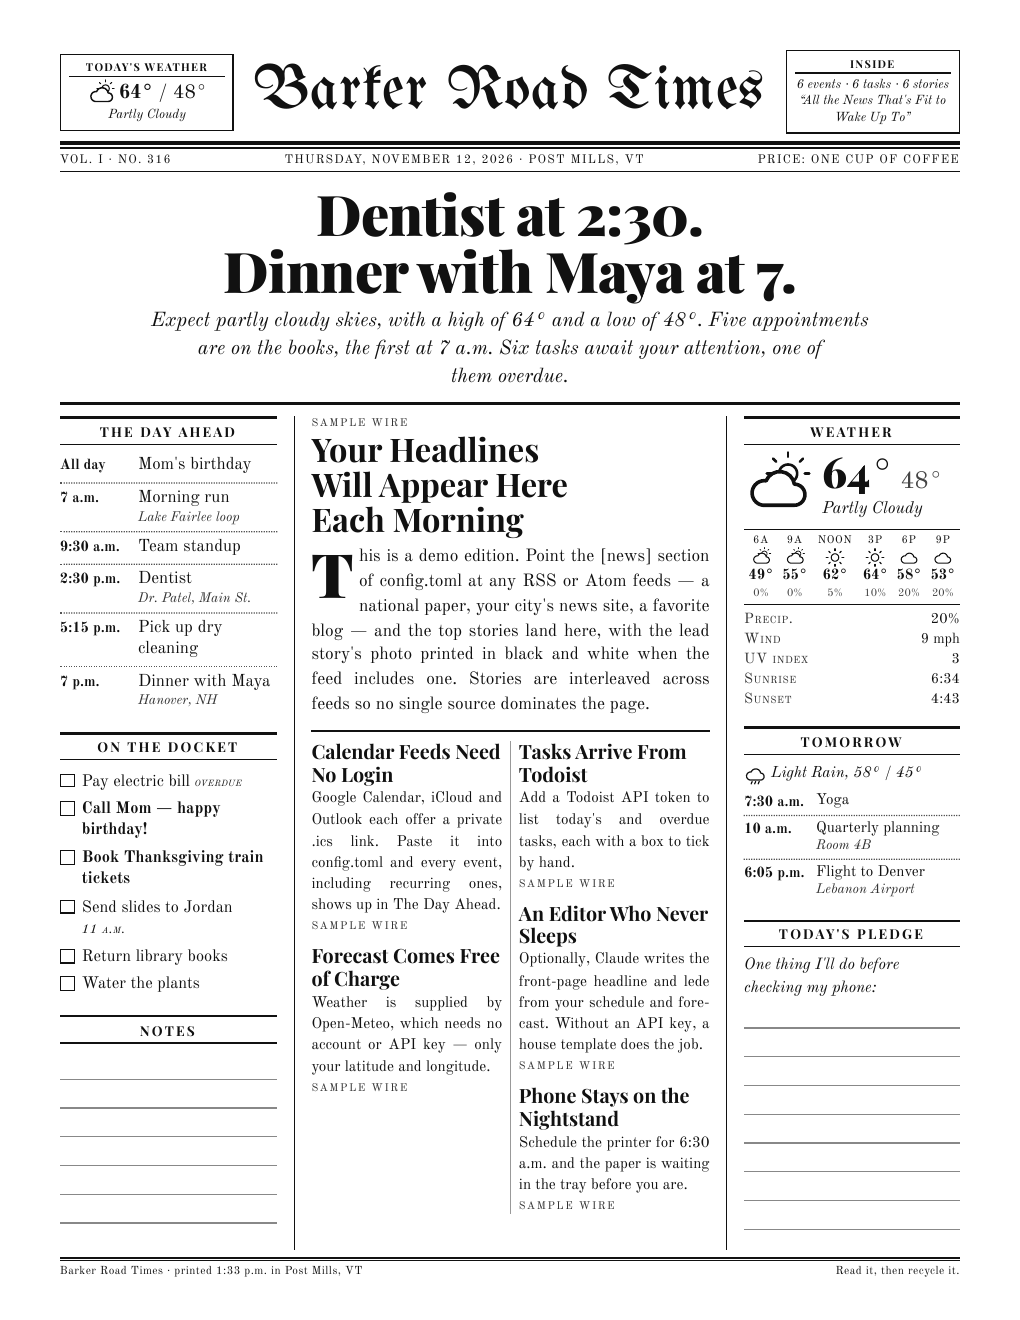
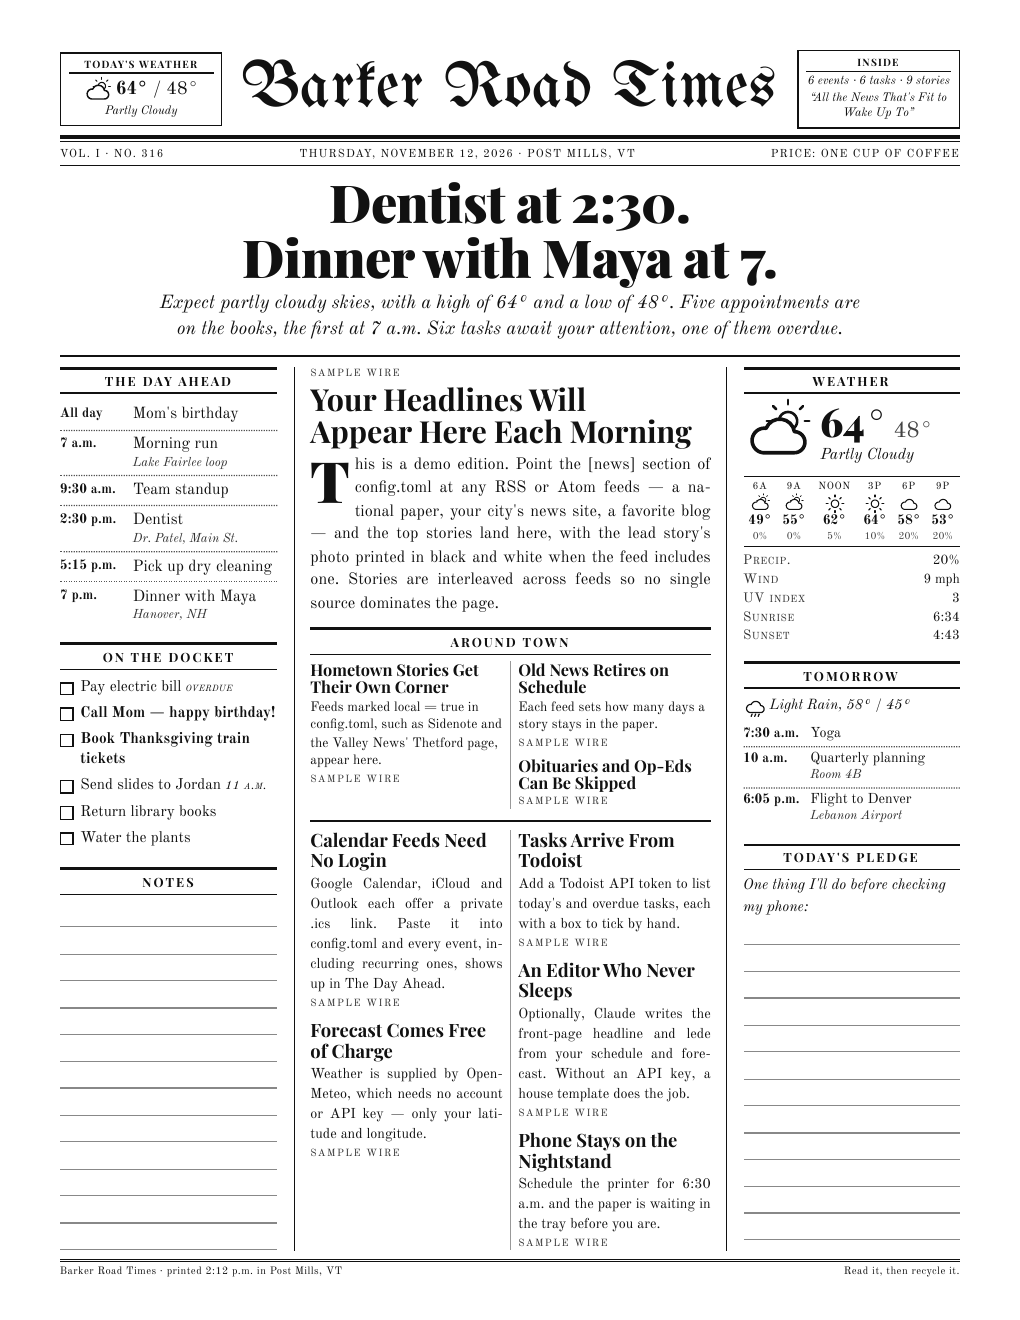
Add Thetford news: an "Around Thetford" box and fresher feeds
- Feeds can be marked local = true; their headlines get their own box
  under the lead story. The example config uses Sidenote and the Valley
  News' Thetford tag, with VTDigger and NPR in the main column.
- Stories carry their publish date and categories; max_age_days (global
  or per feed) retires old stories, and skip_categories drops tagged
  obituaries and opinion pieces.
- Strip feed sign-offs such as "Read the story on VTDigger here: ...".
- Send an Accept header: NPR's feeds return 403 without one.
- Turn Todoist on in the example config.

Claude-Session: https://claude.ai/code/session_013C1dUTS3tUufRTLXZ5FGJK

Changed region(s): [[0.0608, 0.0311, 0.9422, 0.9629], [0.7294, 0.8386, 0.9422, 0.8697], [0.0608, 0.8386, 0.2735, 0.8697]]

diff --git a/paper/templates/paper.css b/paper/templates/paper.css
@@ -201,6 +201,19 @@ body {
   line-height: .82;
   padding: .06em .08em 0 0;
 }
+.local { margin-top: .8rem; }
+.local .kicker { margin-top: 0; }
+.local-list { list-style: none; column-count: 2; column-gap: 1.1rem; column-rule: .5px solid #999; }
+.local-list li { break-inside: avoid; margin-bottom: .55rem; }
+.local-list h4 {
+  font-family: "Playfair Display", serif;
+  font-weight: 700;
+  font-size: 1.15rem;
+  line-height: 1.12;
+  margin-bottom: .15rem;
+}
+.local-list p { font-size: .95rem; line-height: 1.35; margin-bottom: .1rem; }
+
 .briefs {
   margin-top: .8rem;
   padding-top: .55rem;

diff --git a/paper/sources/news.py b/paper/sources/news.py
@@ -5,6 +5,8 @@ from __future__ import annotations
 import html
 import re
 import xml.etree.ElementTree as ET
+from datetime import datetime, timedelta, timezone
+from email.utils import parsedate_to_datetime
 from html.parser import HTMLParser
 from itertools import zip_longest
 from typing import Iterable
@@ -16,9 +18,14 @@ NS = {
     "atom": "http://www.w3.org/2005/Atom",
     "media": "http://search.yahoo.com/mrss/",
     "content": "http://purl.org/rss/1.0/modules/content/",
+    "dc": "http://purl.org/dc/elements/1.1/",
 }
 
 SUMMARY_CHARS = 320
+
+# Sign-offs feeds append to every summary ("Read the story on VTDigger here: ...",
+# WordPress's "The post X appeared first on Y.").
+_BOILERPLATE = re.compile(r"\s*(Read the (full )?story on .+|The post .+ appeared first on .+|Continue reading.*)$", re.I)
 
 
 class _TextAndImages(HTMLParser):
@@ -45,7 +52,7 @@ def strip_html(fragment: str) -> tuple[str, list[str]]:
     parser.feed(fragment or "")
     parser.close()
     text = re.sub(r"\s+", " ", html.unescape("".join(parser.parts))).strip()
-    return text, parser.images
+    return _BOILERPLATE.sub("", text), parser.images
 
 
 def clean_title(text: str) -> str:
@@ -84,6 +91,20 @@ def _first_image(el: ET.Element, html_images: list[str]) -> str | None:
     return None
 
 
+def parse_date(text: str) -> datetime | None:
+    """RSS dates are RFC 822 ("Thu, 12 Nov 2026 13:21:00 +0000"); Atom's are ISO 8601."""
+    if not text:
+        return None
+    try:
+        dt = parsedate_to_datetime(text)
+    except (TypeError, ValueError):
+        try:
+            dt = datetime.fromisoformat(text.strip().replace("Z", "+00:00"))
+        except ValueError:
+            return None
+    return dt if dt.tzinfo else dt.replace(tzinfo=timezone.utc)
+
+
 def _text(el: ET.Element, path: str) -> str:
     found = el.find(path, NS)
     return (found.text or "").strip() if found is not None and found.text else ""
@@ -109,6 +130,8 @@ def parse_feed(data: bytes, source: str = "") -> list[NewsItem]:
                     source=source,
                     link=link_el.get("href", "") if link_el is not None else "",
                     image_url=_first_image(entry, imgs),
+                    published=parse_date(_text(entry, "atom:published") or _text(entry, "atom:updated")),
+                    categories=[c.get("term", "") for c in entry.findall("atom:category", NS) if c.get("term")],
                 )
             )
         return [i for i in items if i.title]
@@ -127,9 +150,30 @@ def parse_feed(data: bytes, source: str = "") -> list[NewsItem]:
                 source=source,
                 link=_text(item, "link"),
                 image_url=_first_image(item, desc_imgs + content_imgs),
+                published=parse_date(_text(item, "pubDate") or _text(item, "dc:date")),
+                categories=[c.text.strip() for c in item.findall("category") if c.text and c.text.strip()],
             )
         )
     return [i for i in items if i.title]
+
+
+def keep_fresh(
+    items: Iterable[NewsItem],
+    now: datetime,
+    max_age_days: float | None = None,
+    skip_categories: Iterable[str] = (),
+) -> list[NewsItem]:
+    """Drop stories older than *max_age_days* (undated ones stay) and any in *skip_categories*."""
+    skip = {c.lower() for c in skip_categories}
+    cutoff = now - timedelta(days=max_age_days) if max_age_days is not None else None
+    kept = []
+    for item in items:
+        if skip and any(c.lower() in skip for c in item.categories):
+            continue
+        if cutoff is not None and item.published is not None and item.published < cutoff:
+            continue
+        kept.append(item)
+    return kept
 
 
 def merge_feeds(feeds: Iterable[list[NewsItem]], limit: int) -> list[NewsItem]:

diff --git a/paper/cli.py b/paper/cli.py
@@ -5,7 +5,7 @@ from __future__ import annotations
 import argparse
 import logging
 import sys
-from datetime import date, datetime, timedelta, tzinfo
+from datetime import date, datetime, timedelta, timezone, tzinfo
 from pathlib import Path
 from zoneinfo import ZoneInfo, ZoneInfoNotFoundError
 
@@ -56,6 +56,7 @@ def build_edition(cfg: dict, day: date, tz: tzinfo, use_demo: bool = False) -> E
         ed.tasks = demo.tasks(day, tz)
         ed.weather = demo.weather(day)
         ed.news = demo.news()
+        ed.local_news = demo.local_news()
         write_front_page(ed, {"enabled": False})
         return ed
 
@@ -101,16 +102,23 @@ def build_edition(cfg: dict, day: date, tz: tzinfo, use_demo: bool = False) -> E
     # News ---------------------------------------------------------------
     n = cfg["news"]
     if n["enabled"] and n["feeds"]:
-        per_feed = []
+        general, local = [], []
+        now = datetime.now(timezone.utc)
         for feed in n["feeds"]:
-            name = feed.get("name", "") if isinstance(feed, dict) else ""
-            url = feed["url"] if isinstance(feed, dict) else str(feed)
+            feed = feed if isinstance(feed, dict) else {"url": str(feed)}
+            name = feed.get("name", "")
             try:
-                per_feed.append(news.fetch_feed(url, name))
+                items = news.fetch_feed(feed["url"], name)
             except Exception as exc:
-                log.warning("Feed %s failed: %s", name or url, exc)
+                log.warning("Feed %s failed: %s", name or feed["url"], exc)
                 ed.notes.append(f"{name or 'A news feed'} unreachable")
-        ed.news = news.merge_feeds(per_feed, n["max_stories"])
+                continue
+            items = news.keep_fresh(
+                items, now, feed.get("max_age_days", n["max_age_days"]), feed.get("skip_categories", ())
+            )
+            (local if feed.get("local") else general).append(items)
+        ed.news = news.merge_feeds(general, n["max_stories"])
+        ed.local_news = news.merge_feeds(local, n["max_local"])
 
     write_front_page(ed, cfg["editor"])
     return ed

diff --git a/tests/test_render.py b/tests/test_render.py
@@ -25,7 +25,7 @@ def test_demo_renders_masthead_and_sections():
     ed, html = demo_html()
     assert "Barker Road Times" in html
     assert ed.headline == "Dentist at 2:30. Dinner with Maya at 7."
-    for section in ("The Day Ahead", "On the Docket", "Weather", "Tomorrow"):
+    for section in ("The Day Ahead", "On the Docket", "Weather", "Tomorrow", "Around Town"):
         assert section in html
     # CSS must not be HTML-escaped, or the fonts silently fall back to Times
     assert 'font-family: "UnifrakturMaguntia"' in html
@@ -63,3 +63,34 @@ def test_cli_pdf_is_one_page(tmp_path):
     pdf = (tmp_path / "paper-2026-11-08.pdf").read_bytes()
     assert pdf.startswith(b"%PDF")
     assert len(re.findall(rb"/Type\s*/Page(?!s)", pdf)) == 1  # exactly one sheet of paper
+
+
+def test_local_feeds_fill_their_own_box(monkeypatch):
+    from datetime import datetime, timedelta, timezone
+
+    from paper import cli
+    from paper.models import NewsItem
+
+    now = datetime.now(timezone.utc)
+    stories = {
+        "https://town.example/rss": [NewsItem("Town story", published=now), NewsItem("Old town story", published=now - timedelta(days=30))],
+        "https://state.example/rss": [NewsItem("State story", published=now), NewsItem("An obit", published=now, categories=["Obituaries"])],
+    }
+
+    def fake_fetch(url, name=""):
+        if url == "https://down.example/rss":
+            raise OSError("offline")
+        return stories[url]
+
+    monkeypatch.setattr(cli.news, "fetch_feed", fake_fetch)
+    cfg = load_config(None)
+    cfg["weather"]["enabled"] = False
+    cfg["news"]["feeds"] = [
+        {"name": "Town", "url": "https://town.example/rss", "local": True, "max_age_days": 14},
+        {"name": "State", "url": "https://state.example/rss", "skip_categories": ["obituaries"]},
+        {"name": "Down", "url": "https://down.example/rss"},
+    ]
+    ed = build_edition(cfg, DAY, TZ)
+    assert [n.title for n in ed.local_news] == ["Town story"]
+    assert [n.title for n in ed.news] == ["State story"]
+    assert "Down unreachable" in ed.notes

diff --git a/tests/test_news.py b/tests/test_news.py
@@ -1,5 +1,7 @@
+from datetime import datetime, timedelta, timezone
+
 from paper.models import NewsItem
-from paper.sources.news import merge_feeds, parse_feed, strip_html, truncate
+from paper.sources.news import keep_fresh, merge_feeds, parse_feed, strip_html, truncate
 
 
 def test_rss(fixtures):
@@ -32,3 +34,31 @@ def test_truncate_and_strip():
     assert truncate("word " * 100, 20).endswith("…")
     assert len(truncate("word " * 100, 20)) <= 21
     assert strip_html("<p>a</p><p>b</p>")[0] == "a b"
+
+
+def test_dates_and_categories(fixtures):
+    item = parse_feed((fixtures / "rss.xml").read_bytes())[0]
+    assert item.published.isoformat() == "2026-11-12T13:21:00+00:00"
+    assert item.categories == ["News", "Obituaries"]
+    atom = parse_feed((fixtures / "atom.xml").read_bytes())[0]
+    assert atom.published.isoformat() == "2026-11-10T08:00:00+00:00"
+    assert atom.categories == ["vermont"]
+
+
+def test_keep_fresh():
+    now = datetime(2026, 11, 12, 12, tzinfo=timezone.utc)
+    items = [
+        NewsItem("new", published=now - timedelta(days=1)),
+        NewsItem("old", published=now - timedelta(days=10)),
+        NewsItem("undated"),
+        NewsItem("obit", published=now, categories=["obituaries"]),
+    ]
+    kept = [i.title for i in keep_fresh(items, now, max_age_days=3, skip_categories=["Obituaries"])]
+    assert kept == ["new", "undated"]
+    assert len(keep_fresh(items, now)) == 4  # no limits, nothing dropped
+
+
+def test_feed_boilerplate_is_stripped():
+    text, _ = strip_html("<p>Vermont officials want to keep the illness at bay. Read the story on VTDigger here: Deer.</p>")
+    assert text == "Vermont officials want to keep the illness at bay."
+    assert strip_html("Body text. The post Hello appeared first on Example.")[0] == "Body text."

diff --git a/paper/render.py b/paper/render.py
@@ -16,6 +16,7 @@ from markupsafe import Markup
 
 from .editor import ap_time
 from .models import Edition
+from .sources.news import truncate
 from .sources.weather import describe, icon
 
 log = logging.getLogger(__name__)
@@ -121,6 +122,7 @@ def environment() -> Environment:
         long_date=_long_date,
         roman=_roman,
         deg=_deg,
+        clip=truncate,
         wx_describe=describe,
         wx_icon_name=icon,
     )
@@ -136,6 +138,7 @@ def render_html(ed: Edition, cfg: dict) -> str:
         page=PAGE_SIZES[cfg["paper"]["paper_size"]],
         price=cfg["paper"]["price"],
         show_images=cfg["news"]["images"],
+        local_title=cfg["news"]["local_title"],
         nameplate_size=nameplate_size(ed.name),
     )
 

diff --git a/paper/sources/http.py b/paper/sources/http.py
@@ -20,7 +20,8 @@ def fetch(url: str, *, params: dict[str, Any] | None = None, headers: dict[str, 
         raise ValueError(f"Only http(s) URLs are supported: {url!r}")
     if params:
         url += ("&" if "?" in url else "?") + urllib.parse.urlencode(params)
-    req = urllib.request.Request(url, headers={"User-Agent": USER_AGENT, **(headers or {})})
+    # Some servers (NPR's feeds, for one) refuse requests with no Accept header, which urllib omits.
+    req = urllib.request.Request(url, headers={"User-Agent": USER_AGENT, "Accept": "*/*", **(headers or {})})
     with urllib.request.urlopen(req, timeout=TIMEOUT) as resp:
         return resp.read()
 

diff --git a/paper/demo.py b/paper/demo.py
@@ -101,3 +101,16 @@ def news() -> list[NewsItem]:
             wire,
         ),
     ]
+
+
+def local_news() -> list[NewsItem]:
+    return [
+        NewsItem(
+            "Hometown Stories Get Their Own Corner",
+            "Feeds marked local = true in config.toml, such as Sidenote and the Valley News' "
+            "Thetford page, appear here.",
+            "Sample Wire",
+        ),
+        NewsItem("Old News Retires on Schedule", "Each feed sets how many days a story stays in the paper.", "Sample Wire"),
+        NewsItem("Obituaries and Op-Eds Can Be Skipped", "", "Sample Wire"),
+    ]

diff --git a/paper/models.py b/paper/models.py
@@ -58,6 +58,8 @@ class NewsItem:
     source: str = ""
     link: str = ""
     image_url: str | None = None
+    published: datetime | None = None
+    categories: list[str] = field(default_factory=list)
 
 
 @dataclass
@@ -73,6 +75,7 @@ class Edition:
     tasks: list[Task] = field(default_factory=list)
     weather: Weather | None = None
     news: list[NewsItem] = field(default_factory=list)
+    local_news: list[NewsItem] = field(default_factory=list)
     volume: int = 1
     number: int = 1
     printed_at: datetime | None = None

diff --git a/paper/config.py b/paper/config.py
@@ -44,7 +44,10 @@ DEFAULTS: dict[str, Any] = {
     "news": {
         "enabled": True,
         "max_stories": 6,
+        "max_age_days": 3,  # per-feed max_age_days overrides this
         "images": True,
+        "local_title": "Around Town",
+        "max_local": 4,
         "feeds": [
             {"name": "NPR", "url": "https://feeds.npr.org/1001/rss.xml"},
             {"name": "BBC News", "url": "https://feeds.bbci.co.uk/news/world/rss.xml"},

diff --git a/README.md b/README.md
@@ -12,7 +12,8 @@ and sent to your printer before you wake up.
 | The Day Ahead / Tomorrow | Any iCal feed: Google Calendar, iCloud, Outlook | No (uses your private .ics link) |
 | On the Docket | Todoist, `today \| overdue` | API token (optional) |
 | Weather | [Open-Meteo](https://open-meteo.com) | No |
-| News | Any RSS / Atom feeds (NPR and BBC by default) | No |
+| Around Thetford | [Sidenote](https://www.sidenote.news) and the Valley News' Thetford page | No |
+| News | VTDigger and NPR, or any RSS / Atom feeds | No |
 | Headline + lede | A built-in template, or Claude if you add an API key | Optional |
 
 If a source is down, the paper still prints and a small note in the footer says what was missing.
@@ -47,8 +48,12 @@ Then edit `config.toml` (it's git-ignored, so your private links stay local):
    - Google: Calendar settings → your calendar → *Integrate calendar* → **Secret address in iCal format**
    - iCloud: Calendar app → right-click the calendar → *Share Calendar* → *Public Calendar* → copy link
    - Outlook: Settings → Calendar → Shared calendars → *Publish a calendar* → ICS link
-4. **Todoist** (optional). Set `enabled = true` and paste your token from Settings → Integrations → Developer.
-5. **News.** Swap in any RSS feeds you like.
+4. **Todoist.** Paste your token from Settings → Integrations → Developer (or set `TODOIST_API_TOKEN`).
+   Tasks due today and overdue tasks print with a box to tick; change `filter` to any Todoist filter.
+5. **News.** Each feed in `[news] feeds` can set:
+   - `local = true`, to put its headlines in the "Around Thetford" box instead of the main news column
+   - `max_age_days`, how long a story stays in the paper (handy for sites that post weekly)
+   - `skip_categories`, to drop tagged stories such as `"Obituaries"` or `"Opinion"`
 6. **Claude as editor** (optional). Set `enabled = true` under `[editor]` and add an Anthropic API key.
    Claude then writes the headline and opening paragraph from your schedule and forecast, one small
    request per edition. If the key is missing or the call fails, the template writes them instead.
